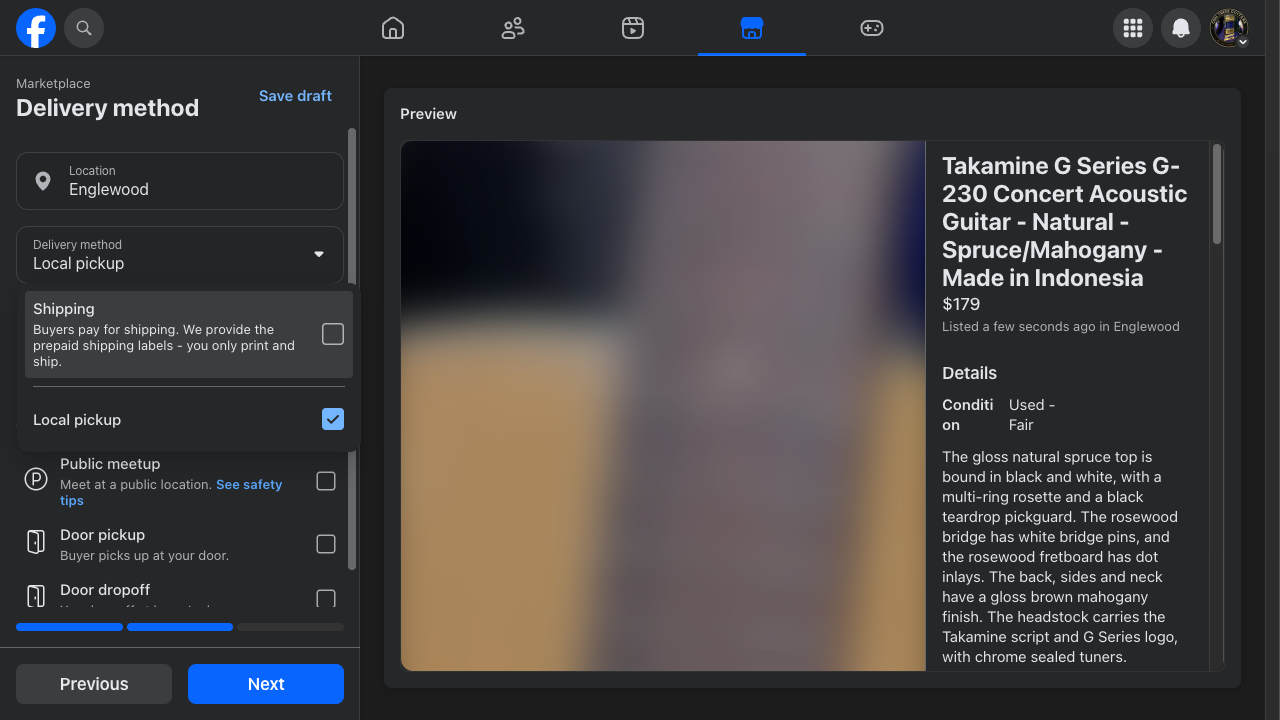
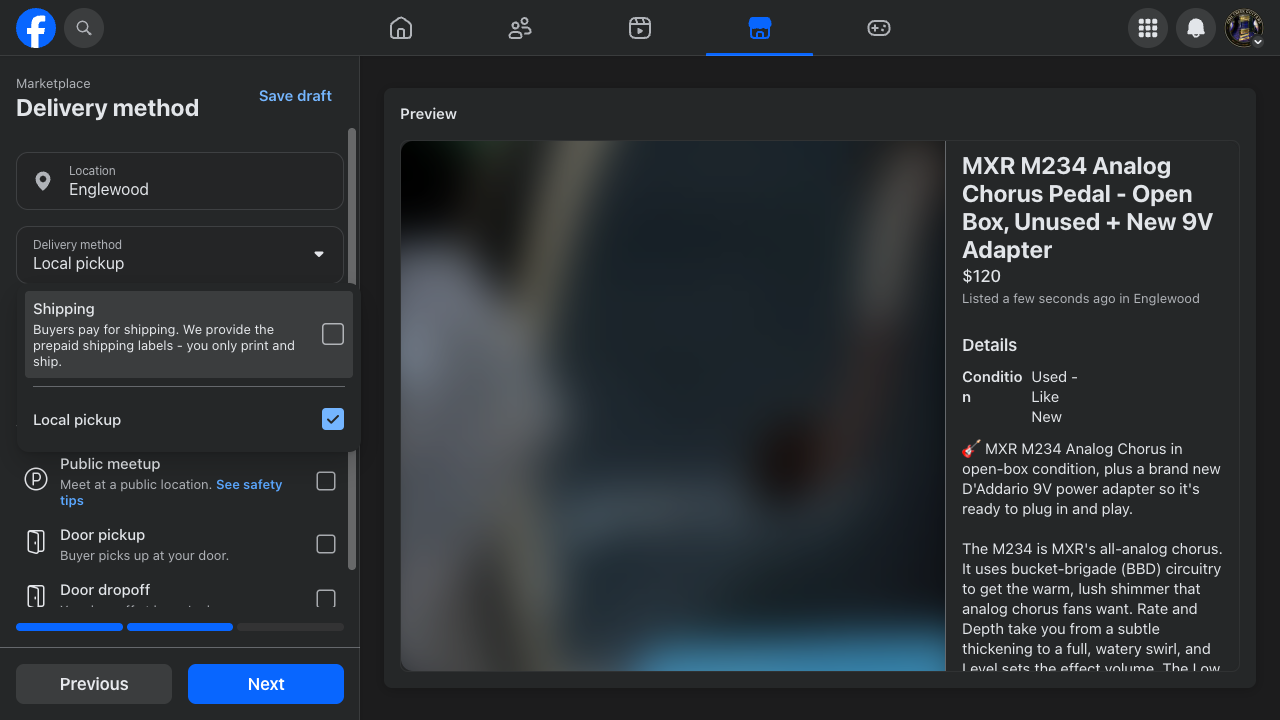
lots change

diff --git a/workers/listing-evaluator/src/inventory/purchased-lots.ts b/workers/listing-evaluator/src/inventory/purchased-lots.ts
@@ -29,7 +29,7 @@ export async function dbListPurchaseLotItems(lotId: number, env: Env): Promise<P
        i.private_party_value * ${LOT_ROW_QTY_SQL} AS private_party_value,
        CASE WHEN i.for_sale = 1 THEN COALESCE(i.sale_price, 0) * ${LOT_ROW_QTY_SQL} ELSE 0 END AS for_sale_amount
      FROM ccg_inventory_items i
-     WHERE i.purchase_lot_id = ?
+     WHERE i.purchase_lot_id = ? AND COALESCE(i.is_active, 0) = 1
      ORDER BY i.created_at DESC`
   ).bind(lotId).all<PurchaseLotItemRow>();
   return result.results ?? [];
@@ -39,12 +39,12 @@ export async function dbListPurchaseLots(env: Env): Promise<PurchaseLotRow[]> {
   const result = await env.DB.prepare(
     `SELECT
        l.id, l.name, l.description, l.created_at,
-       COALESCE(SUM(CASE WHEN i.is_sold = 1 AND i.is_active = 1 THEN i.sold_amount ELSE 0 END), 0) AS resale_amount,
-       COALESCE(SUM(CASE WHEN i.is_active = 1 THEN COALESCE(i.unit_purchase_price, 0) * ${LOT_ROW_QTY_SQL} ELSE 0 END), 0) AS total_spent_calc,
-       COALESCE(SUM(CASE WHEN i.is_active = 1 AND i.for_sale = 1 AND COALESCE(i.is_sold, 0) = 0 THEN COALESCE(i.sale_price, 0) * ${LOT_ROW_QTY_SQL} ELSE 0 END), 0) AS for_sale_amount,
-       COALESCE(SUM(CASE WHEN i.is_active = 1 THEN COALESCE(i.private_party_value, 0) * ${LOT_ROW_QTY_SQL} ELSE 0 END), 0) AS private_party_amount
+       COALESCE(SUM(CASE WHEN i.is_sold = 1 THEN i.sold_amount ELSE 0 END), 0) AS resale_amount,
+       COALESCE(SUM(COALESCE(i.unit_purchase_price, 0) * ${LOT_ROW_QTY_SQL}), 0) AS total_spent_calc,
+       COALESCE(SUM(CASE WHEN i.for_sale = 1 AND COALESCE(i.is_sold, 0) = 0 THEN COALESCE(i.sale_price, 0) * ${LOT_ROW_QTY_SQL} ELSE 0 END), 0) AS for_sale_amount,
+       COALESCE(SUM(COALESCE(i.private_party_value, 0) * ${LOT_ROW_QTY_SQL}), 0) AS private_party_amount
      FROM ccg_purchase_lots l
-     LEFT JOIN ccg_inventory_items i ON i.purchase_lot_id = l.id
+     LEFT JOIN ccg_inventory_items i ON i.purchase_lot_id = l.id AND COALESCE(i.is_active, 0) = 1
      GROUP BY l.id, l.name, l.description, l.created_at
      ORDER BY l.created_at DESC, l.id DESC`
   ).all<PurchaseLotRow>();

diff --git a/ccg-fbm-sync/fbm_client.py b/ccg-fbm-sync/fbm_client.py
@@ -9,7 +9,8 @@ risk, not an oversight.
 Session handling: the first run opens a real, visible browser window so you log into
 Facebook yourself, by hand (sidesteps 2FA/captcha entirely — this code never sees your
 password). That session is saved locally to `.fb_session.json` and reused on every later
-run. Delete that file to force a fresh login (e.g. if Facebook logs the session out).
+run, and re-saved every time a browser opens. If Facebook has logged the session out, the
+run notices the login form and waits for you to log in by hand again (see _new_session_context).
 
 `.fb_session.json` holds live Facebook auth cookies — treat it like a password, never
 commit it (already in .gitignore).
@@ -164,25 +165,44 @@ def _click_load_more(page) -> bool:
     return False
 
 
-def _login_and_save_session(playwright) -> None:
-    browser = playwright.chromium.launch(headless=False)
-    context = browser.new_context()
+def _new_session_context(browser):
+    """A context seeded from the saved session (if any), checked for being logged in first.
+
+    Facebook expires/invalidates sessions server-side while the cookies in the saved file
+    still look valid, so the file existing proves nothing — found live 2026-10-28, when every
+    run hit FB's "See more on Facebook" login wall and a by-hand login in that window was
+    never written back to disk, so the next run loaded the same dead cookies again. Instead,
+    load the create-listing page and wait for a by-hand login until its photo input shows up,
+    then always re-save the session so both a fresh login and FB's routine cookie rotation
+    carry to the next run. Checks for the photo input rather than for a password field: with a
+    dead session, facebook.com's home page showed no password field yet the create page still
+    hit the login wall (found live 2026-10-28)."""
+    if SESSION_FILE.exists():
+        context = browser.new_context(storage_state=str(SESSION_FILE))
+    else:
+        context = browser.new_context()
     page = context.new_page()
-    page.goto("https://www.facebook.com/login")
-    print("\nA browser window opened. Log into Facebook there, then come back and press Enter.")
-    input()
+
+    def logged_in() -> bool:
+        page.goto(CREATE_LISTING_URL, wait_until="domcontentloaded")
+        try:
+            page.locator("input[type='file'][accept*='image']").first.wait_for(state="attached", timeout=10000)
+            return True
+        except Exception:
+            return False
+
+    while not logged_in():
+        print("\nFacebook isn't logged in. Log in in the browser window, then come back and press Enter.")
+        input()
     context.storage_state(path=str(SESSION_FILE))
-    browser.close()
-    print(f"Session saved to {SESSION_FILE.name} — future runs won't need to log in again.\n")
+    page.close()
+    return context
 
 
 def get_active_listings() -> list[FbListing]:
     with sync_playwright() as playwright:
-        if not SESSION_FILE.exists():
-            _login_and_save_session(playwright)
-
         browser = playwright.chromium.launch(headless=False)
-        context = browser.new_context(storage_state=str(SESSION_FILE))
+        context = _new_session_context(browser)
         page = context.new_page()
         # "networkidle" effectively never fires on Facebook — it keeps background
         # websocket/polling traffic running indefinitely, so that wait condition just times
@@ -238,10 +258,8 @@ def open_draft_browser(playwright):
     """One browser, reused for every draft in a run — each draft opens in its own new tab
     (via create_draft_listing's `context`) rather than a separate browser window each time.
     Caller owns the lifecycle: close `browser` and call `playwright.stop()` when done."""
-    if not SESSION_FILE.exists():
-        _login_and_save_session(playwright)
     browser = playwright.chromium.launch(headless=False)
-    context = browser.new_context(storage_state=str(SESSION_FILE))
+    context = _new_session_context(browser)
     return browser, context
 
 
@@ -691,10 +709,11 @@ def create_draft_listing(
 
     allow_shipping / shipping_cost (added 2026-09-20, Add All mode). Flow confirmed from live
     screenshots: the account default now pre-selects "Shipping & local pickup", so the Delivery
-    method dropdown is always set explicitly. shipping_cost of 0 (or allow_shipping False) ->
-    "Local pickup" + the 3 meetup boxes, exactly as before. shipping_cost > 0 -> "Shipping &
-    local pickup" (which replaces the meetup section with a "Shipping label" row): open the
-    label dialog, Shipping option "Use your own label", Shipping rate = shipping_cost, Update;
+    method dropdown is always set explicitly. allow_shipping False -> "Local pickup" + the 3
+    meetup boxes, exactly as before. allow_shipping True (including shipping_cost 0, i.e. free
+    shipping) -> "Shipping & local pickup" (which replaces the meetup section with a "Shipping
+    label" row): open the label dialog, Shipping option "Use your own label", Shipping rate =
+    shipping_cost, Update;
     Next to the "Allow offers" step, always turned OFF; then Save draft. If any shipping step
     fails, the draft is NOT saved (returns None) rather than saving a mis-configured listing.
     Selectors are text-based and not yet run end-to-end — expect to tune them on the first run.
@@ -778,7 +797,9 @@ def create_draft_listing(
 
     # Meetup preferences (Public meetup / Door pickup / Door dropoff) — see
     # _check_meetup_preference.
-    use_shipping = bool(allow_shipping) and float(shipping_cost or 0) > 0
+    # A $0 shipping cost is free shipping, not "no shipping" (changed 2026-10-28) — only
+    # allow_shipping decides whether the draft ships.
+    use_shipping = bool(allow_shipping)
     if use_shipping and float(price or 0) > FB_MAX_SHIPPING_PRICE:
         print(
             f"  FB doesn't allow shipping over ${FB_MAX_SHIPPING_PRICE} — drafting as local pickup only "
